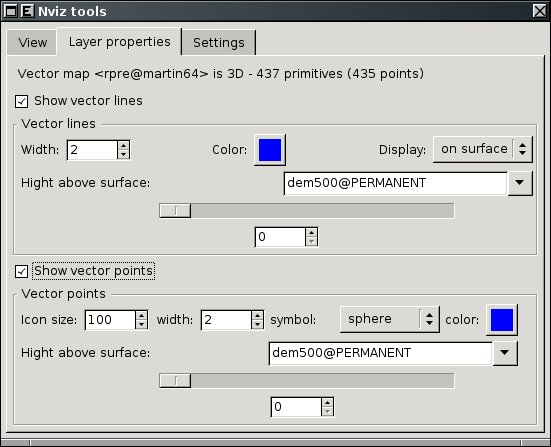
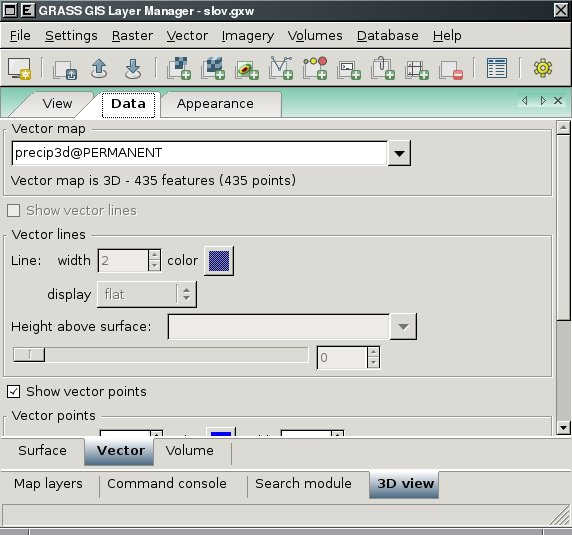
wxGUI/nviz: update screenshots in the manual + cosmetics
git-svn-id: https://svn.osgeo.org/grass/grass/trunk@43028 15284696-431f-4ddb-bdfa-cd5b030d7da7

diff --git a/gui/wxpython/docs/wxGUI.Nviz.html b/gui/wxpython/docs/wxGUI.Nviz.html
@@ -1,19 +1,21 @@
 <h2>DESCRIPTION</h2>
 
-<b>Note:</b> <em>wxGUI Nviz extension is currently under development. Not
+<b>Note:</b> <em>wxNviz is currently under development. Not
 all functionality is implemented.</em>
 
 <p>
-<b>wxGUI Nviz extension</b> allows users to realistically render multiple
+<b>wxNviz</b> is a <em><a href="wxGUI.html">wxGUI</a></em> <b>3D view
+mode</b> which allows users to realistically render multiple
 <em>surfaces</em> (raster data) in a 3D space, optionally using
 thematic coloring, draping 2D <em>vector</em> data over the surfaces,
 displaying 3D vector data in the space, and visualization
 of <em>volume</em> data (3D raster data).
 
 <p>
-To start the wxGUI Nviz extension, choose '3D view' from the map toolbar.
+To start the wxGUI 3D view mode, choose '3D view' from the map
+toolbar.
 <p>
-Nviz is emphasized on the ease and speed of viewer positioning and
+wxNviz is emphasized on the ease and speed of viewer positioning and
 provided flexibility for using a wide range of data. A low resolution
 surface or wire grid (optional) provides real-time viewer positioning
 capabilities. Coarse and fine resolution controls allow the user to
@@ -22,11 +24,11 @@ of elevation provides the ability to use various data types for the
 vertical dimension.
 
 <p>
-For each session of Nviz, you might want the same set of 2D/3D raster
-and vector data, view parameters, or other attributes. For consistency
-between sessions, you can store this information in
-the <em>workspace</em> file (gxw). Workspace file contains information
-to restore "state" of the system in 2D and if Nviz is enabled also in
+For each session of wxNviz, you might want the same set of 2D/3D
+raster and vector data, view parameters, or other attributes. For
+consistency between sessions, you can store this information in the
+GRASS <em>workspace</em> file (gxw). Workspace contains information to
+restore "state" of the system in 2D and if wxNviz is enabled also in
 the 3D display mode.
 
 <h2>Data visualization</h2>
@@ -87,24 +89,25 @@ attributes:
     light emitted from the current volume. Range from 0 to 255.</li>
 </ul>
 
-<h2>Nviz Toolbox Window</h2>
+<h2>Toolbox</h2>
 
-The toolbox window has currently three tabs:
+The 3D view toolbox is integrated in the Layer Manager. The toolbox
+has several tabs:
 
 <ul>
-  <li>View<li>
-  <li>Layer properties<li>
-  <li>Settings</li>
+  <li><b>View</b> for view controling,</li>
+  <li><b>Data</b> for data properties,</li>
+  <li><b>Appearance</b> for appearance settings (lighting, fringes, ...).</li>
 </ul>
 
 <h3>View</h3>
 
 You can use this panel to set the <em>position, direction, and
   perspective</em> of the view. The position box shows a puck with a
-direction line pointing to the center. The direction line indicates
-the look direction (azimuth). You click and drag the puck to change
-the current eye position. The box annotations are North, South,
-East, and West. You can also set exact position using <em>Look
+  direction line pointing to the center. The direction line indicates
+  the look direction (azimuth). You click and drag the puck to change
+  the current eye position. The box annotations are North, South,
+  East, and West. You can also set exact position using <em>Look
   at</em> choice control.
 
 <center>
@@ -116,20 +119,20 @@ twist value to rotate the scene about the horizontal axis. An angle of
 0 is flat. The scene rotates between -90 and 90 degrees.
 
 <p>
-  You can also adjusts the vertical exaggeration of the surface. As an
-  example, if the easting and northing are in meters and the elevation
-  in feet, a vertical exaggeration of 0.305 would produce a true
-  (unexaggerated) surface.
+You can also adjusts the vertical exaggeration of the surface. As an
+example, if the easting and northing are in meters and the elevation
+in feet, a vertical exaggeration of 0.305 would produce a true
+(unexaggerated) surface.
   
 <p>
-  <em>Reset</em> returns all current settings to their default values.
+<em>Reset</em> returns all current settings to their default values.
 
-<h3>Surface properties</h3>
+<h3>Data properties (surface)</h3>
 
 This panel controls how loaded surfaces are drawn. The top half of the
 panel has options to set, unset or modify attributes of the current
-surface.The bottom half has drawing style options, masking or changing
-surface position in the space.
+surface. The bottom half has drawing style options, masking or
+changing surface position in the space.
 
 <center>
   <br><img src="wxGUI_nviz_tools_surface.jpg" border="1"><br><br>
@@ -140,10 +143,10 @@ realistic). You can set draw <b>mode</b> to <em>coarse</em> (fast
 display mode), <em>fine</em> (draws surface as filled polygons with
 fine resolution) or <em>both</em> (which combines coarse and fine
 mode). Additionally set coarse <b>style</b> to <em>wire</em> to draw
-the surface as wire mesh (you can also choose color of the
-wire) or <em>surface</em> to draw the surface using coarse resolution
-filled polygons.  This is a low resolution version of the polygon
-surface style.
+the surface as wire mesh (you can also choose color of the wire)
+or <em>surface</em> to draw the surface using coarse resolution filled
+polygons. This is a low resolution version of the polygon surface
+style.
 
 E.g. surface is drawn as a wire mesh if you set <b>mode</b>
 to <em>coarse</em> and <b>style</b> to <em>wire</em>. Note that it
@@ -159,10 +162,9 @@ draws the surfaces with flat shading with one color for every two
 cells. The surface appears faceted.
 
 <p>
-  To set given draw settings for all loaded surfaces press button
-  "All".
+To set given draw settings for all loaded surfaces press button "All".
 
-<h3>Vector properties</h3>
+<h3>Data properties (vector)</h3>
 
 This panel controls how loaded 2D or 3D vector data are drawn.
 
@@ -191,16 +193,16 @@ applies to wire-frame markers). Currently are implemented these
 markers:
 
 <ul>
-  <li><b>x</b> sets the current points markers to a 2D "X";</li>
-  <li><b>sphere</b> - solid 3D sphere;</li>
-  <li><b>diamond</b> - solid 3D diamond;</li>
-  <li><b>cube</b> - solid 3D cube;</li>
-  <li><b>box</b> - hollow 3D cube;</li>
-  <li><b>gyroscope</b> - hollow 3D sphere;</li>
-  <li><b>asterisk</b> - 3D line-star;</li>
+  <li><b>x</b> sets the current points markers to a 2D "X",</li>
+  <li><b>sphere</b> - solid 3D sphere,</li>
+  <li><b>diamond</b> - solid 3D diamond,</li>
+  <li><b>cube</b> - solid 3D cube,</li>
+  <li><b>box</b> - hollow 3D cube,</li>
+  <li><b>gyroscope</b> - hollow 3D sphere,</li>
+  <li><b>asterisk</b> - 3D line-star.</li>
 </ul>
  
-<h3>Volume properties</h3>
+<h3>Data properties (volume)</h3>
 
 This panel controls how loaded volumes are drawn. Volume can be drawn
 in two different modes: <b>isosurface</b> or <b>slice</b>. The top
@@ -222,7 +224,7 @@ visualization modes:
 
 <ul>
   <li><b>isosurface</b> - the levels of values for drawing the
-  volume(s) as isosurfaces;</li>
+  volume(s) as isosurfaces,</li>
   <li>and <b>slice</b> - the levels of values for drawing the volume
   as cross-sections.</li>
 </ul>
@@ -239,14 +241,11 @@ parameters, or to set the background color of the Map Display Window
 
 <ul>
   <li>Improve intuitive navigation (mouse, fly mode)</li>
-  <li>Interactive lighting controls</li>
   <li>Animation capabilities</li>
-  <li>Data querying and measuring</li>
   <li>Arbitrary cutting planes</li>
   <li>Labels, decoration, etc.</li>
   <li>Scripting capabilities</li>
   <li>Better workspace support (view settings, lighting)
-  <li>Image Dump</li>
   <li>Surface - mask by zero/elevation, more interactive positioning</li>
   <li>Vector points - implement display mode flat/surface for 2D points</li>
   <li>Volume - slice draw mode</li>
@@ -254,7 +253,7 @@ parameters, or to set the background color of the Map Display Window
 </ul>
 
 <p>
-<b>Please note that the wxGUI Nviz extension is under active development and
+<b>Please note that wxNviz is under active development and
 distributed as &quot;Experimental Prototype&quot;.</b>
 
 <h2>SEE ALSO</h2>
@@ -269,7 +268,11 @@ Original <a href="nviz.html">TCL/TK-based</a> Nviz.
 
 <h2>AUTHORS</h2>
 
-Martin Landa, Google Summer of Code 2008 (Mentor: Michael Barton)
+Martin
+Landa, <a href="http://grass.osgeo.org/wiki/WxNviz_GSoC_2008">Google
+Summer of Code 2008</a> (mentor: Michael Barton)
+and <a href="http://grass.osgeo.org/wiki/WxNviz_GSoC_2010">Google
+Summer of Code 2008</a> (mentor: Helena Mitasova)
 
 <p>
 <i>$Date$</i>

diff --git a/gui/wxpython/gui_modules/globalvar.py b/gui/wxpython/gui_modules/globalvar.py
@@ -135,7 +135,7 @@ else:
     EXT_BIN = ''
     EXT_SCT = ''
 
-def GetGRASSCmds(bin=True, scripts=True, gui_scripts=True):
+def GetGRASSCmds(bin = True, scripts = True, gui_scripts = True):
     """!Create list of all available GRASS commands to use when
     parsing string from the command line
     """
@@ -150,9 +150,9 @@ def GetGRASSCmds(bin=True, scripts=True, gui_scripts=True):
         
         # add special call for setting vector colors
         cmd.append('vcolors')
-    if scripts is True:
+    if scripts:
         cmd = cmd + os.listdir(os.path.join(gisbase, 'scripts')) 
-    if gui_scripts is True:
+    if gui_scripts:
         os.environ["PATH"] = os.getenv("PATH") + os.pathsep + os.path.join(gisbase, 'etc', 'gui', 'scripts')
         cmd = cmd + os.listdir(os.path.join(gisbase, 'etc', 'gui', 'scripts'))
        
@@ -166,7 +166,7 @@ def GetGRASSCmds(bin=True, scripts=True, gui_scripts=True):
 """@brief Collected GRASS-relared binaries/scripts"""
 grassCmd = {}
 grassCmd['all'] = GetGRASSCmds()
-grassCmd['script'] = GetGRASSCmds(bin=False)
+grassCmd['script'] = GetGRASSCmds(bin = False)
 
 """@Toolbar icon size"""
 toolbarSize = (24, 24)
